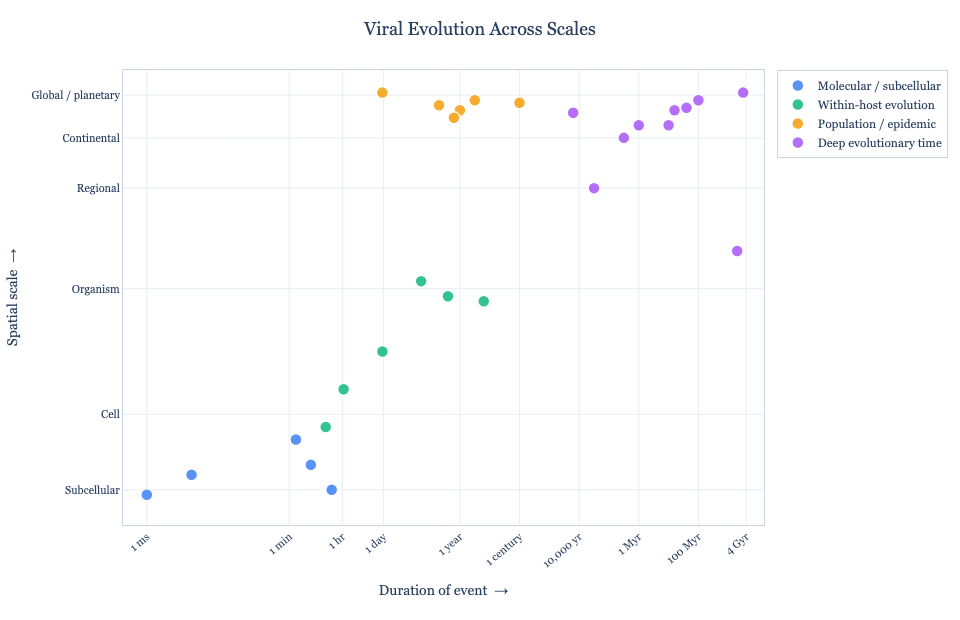
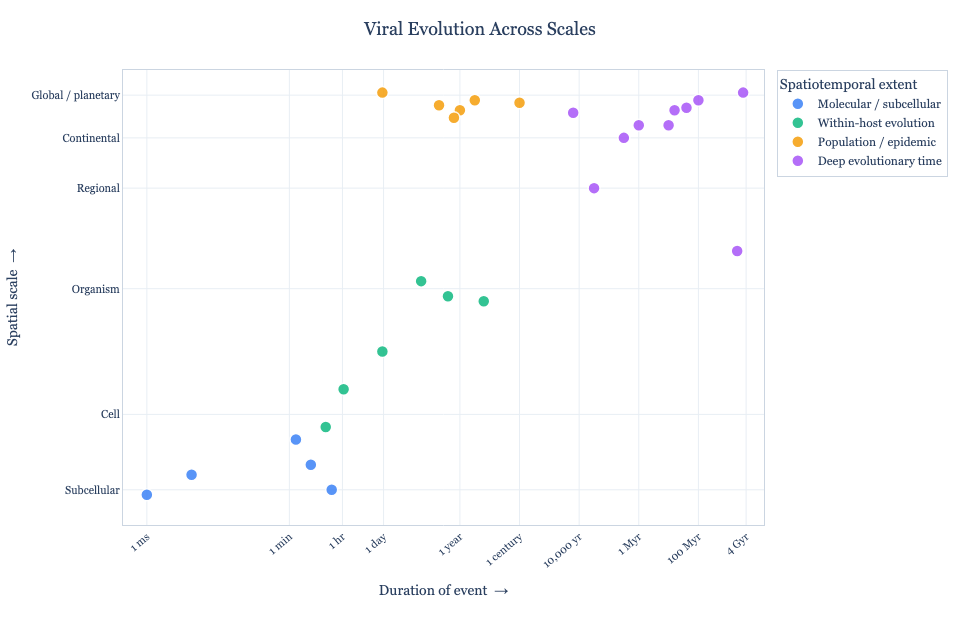
Added legend title.

Changed region(s): [[0.8125, 0.1226, 1.0, 0.2758]]

diff --git a/docs/index.html b/docs/index.html
@@ -2,6 +2,6 @@
 <head><meta charset="utf-8" /></head>
 <body>
     <div>                        <script>window.PlotlyConfig = {MathJaxConfig: 'local'};</script>
-        <script charset="utf-8" src="https://cdn.plot.ly/plotly-3.5.0.min.js" integrity="sha256-fHbNLP+GlIXN+efbQec78UkemUz3NJp7UmfGxC1tNxs=" crossorigin="anonymous"></script>                <div id="cd63f837-053e-462e-a65a-f21505c27e48" class="plotly-graph-div" style="height:620px; width:960px;"></div>            <script>                window.PLOTLYENV=window.PLOTLYENV || {};                                if (document.getElementById("cd63f837-053e-462e-a65a-f21505c27e48")) {                    Plotly.newPlot(                        "cd63f837-053e-462e-a65a-f21505c27e48",                        [{"customdata":["\u003cb\u003eRdRp nucleotide misincorporation\u003c\u002fb\u003e\u003cbr\u003e\u003cbr\u003eAn RdRp incorporates the wrong nucleotide once every\u003cbr\u003e~10 s of copying — the fastest evolutionary event in\u003cbr\u003evirology, and the raw material of all RNA virus\u003cbr\u003ediversity.","\u003cb\u003eRibosomal frameshifting\u003c\u002fb\u003e\u003cbr\u003e\u003cbr\u003eProgrammed −1 ribosomal frameshifting (HIV,\u003cbr\u003ecoronaviruses) occurs in milliseconds, generating\u003cbr\u003emultiple proteins from one genome — a single molecular\u003cbr\u003eevent with profound functional consequences.","\u003cb\u003eCapsid self-assembly\u003c\u002fb\u003e\u003cbr\u003e\u003cbr\u003eViral coat proteins assemble around the genome in\u003cbr\u003eminutes, driven by thermodynamics alone — no enzymatic\u003cbr\u003eenergy required. One of biology's most elegant examples\u003cbr\u003eof self-organisation.","\u003cb\u003eAPOBEC3 deamination of retroviral genome\u003c\u002fb\u003e\u003cbr\u003e\u003cbr\u003eHost APOBEC3 hypermutates the retroviral genome during\u003cbr\u003ereverse transcription. Its molecular signatures remain\u003cbr\u003ereadable in ERV sequences tens of millions of years\u003cbr\u003elater — the arms race fossilised at the molecular\u003cbr\u003escale.","\u003cb\u003eViral membrane budding\u003c\u002fb\u003e\u003cbr\u003e\u003cbr\u003eEnveloped viruses bud from the plasma membrane in\u003cbr\u003eminutes, hijacking host ESCRT machinery — the moment a\u003cbr\u003enew virion first becomes physically independent of its\u003cbr\u003ehost cell."],"hovertemplate":"%{customdata}\u003cextra\u003e\u003c\u002fextra\u003e","marker":{"color":"#3B82F6","line":{"color":"white","width":1.5},"opacity":0.85,"size":12},"mode":"markers","name":"Molecular \u002f subcellular","x":[-3.0,-1.5,2.5,3.2,2.0],"y":[-8.2,-7.4,-7.0,-8.0,-6.0],"type":"scatter"},{"customdata":["\u003cb\u003ePhage replication cycle (~25 min)\u003c\u002fb\u003e\u003cbr\u003e\u003cbr\u003eBacteriophage T4 completes a full lytic cycle in ~25\u003cbr\u003eminutes. In a single day, a phage population undergoes\u003cbr\u003emore generations than mammals have completed in 100\u003cbr\u003emillion years.","\u003cb\u003eInfluenza replication cycle (~8 hr)\u003c\u002fb\u003e\u003cbr\u003e\u003cbr\u003eInfluenza completes one replication cycle in ~8 hr\u003cbr\u003ewithin a respiratory epithelial cell, generating\u003cbr\u003ehundreds of progeny — most defective, some carrying\u003cbr\u003enovel mutations that may prove advantageous.","\u003cb\u003eHIV replication cycle (~2 days)\u003c\u002fb\u003e\u003cbr\u003e\u003cbr\u003eHIV replicates with a ~2-day cycle; ~10¹⁰ virions\u003cbr\u003eproduced daily in untreated infection. Each generation\u003cbr\u003eis another round of mutation and selection — evolution\u003cbr\u003eat the speed of disease.","\u003cb\u003eHIV quasispecies turnover (weeks)\u003c\u002fb\u003e\u003cbr\u003e\u003cbr\u003eThe entire circulating HIV quasispecies in a patient\u003cbr\u003eturns over multiple times per week — a complete\u003cbr\u003eevolving ecosystem in miniature, observable in real\u003cbr\u003etime.","\u003cb\u003eDrug resistance emergence (weeks–months)\u003c\u002fb\u003e\u003cbr\u003e\u003cbr\u003eResistance mutations pre-existing at 1-in-10⁵ frequency\u003cbr\u003ecan fix within weeks of starting monotherapy. Selection\u003cbr\u003eis extreme — non-resistant virus is effectively dead.\u003cbr\u003eThis is why combination therapy is required.","\u003cb\u003eChronic within-host immune escape (years)\u003c\u002fb\u003e\u003cbr\u003e\u003cbr\u003eOver years of chronic HIV infection, escape mutations\u003cbr\u003eaccumulate across the full CTL repertoire — a complete\u003cbr\u003eevolutionary trajectory observable within a single\u003cbr\u003epatient's clinical records."],"hovertemplate":"%{customdata}\u003cextra\u003e\u003c\u002fextra\u003e","marker":{"color":"#10B981","line":{"color":"white","width":1.5},"opacity":0.85,"size":12},"mode":"markers","name":"Within-host evolution","x":[3.0,3.6,4.9,6.2,7.1,8.3],"y":[-5.5,-4.0,-2.5,0.3,-0.3,-0.5],"type":"scatter"},{"customdata":["\u003cb\u003eOceanic viral shunt (daily, planetary)\u003c\u002fb\u003e\u003cbr\u003e\u003cbr\u003eViral lysis of marine bacteria diverts ~25% of ocean\u003cbr\u003eprimary production daily — the same replication process\u003cbr\u003ethat causes disease, simultaneously operating as a\u003cbr\u003eplanetary biogeochemical cycle. Note: same timescale as\u003cbr\u003ethe HIV replication cycle, 17 orders of magnitude\u003cbr\u003ehigher in spatial scale.","\u003cb\u003eSARS-CoV-2 variant emergence (months)\u003c\u002fb\u003e\u003cbr\u003e\u003cbr\u003eOmicron acquired \u003e30 spike mutations in months —\u003cbr\u003eprobably in a single immunocompromised host — then\u003cbr\u003espread globally. Within-host evolution projecting\u003cbr\u003edirectly onto pandemic scale.","\u003cb\u003eSeasonal influenza antigenic drift\u003c\u002fb\u003e\u003cbr\u003e\u003cbr\u003eHA\u002fNA accumulate mutations under antibody pressure over\u003cbr\u003e1–2 years — enough to require annual vaccine\u003cbr\u003ereformulation globally. Influenza's evolutionary clock\u003cbr\u003eis calibrated on vaccine committee meetings.","\u003cb\u003eSARS-CoV-1 epidemic (2002–03)\u003c\u002fb\u003e\u003cbr\u003e\u003cbr\u003e~8,000 cases, contained in months — but the first\u003cbr\u003edemonstration that bat coronaviruses could cause severe\u003cbr\u003ehuman disease. The evolutionary warning shot before\u003cbr\u003eSARS-CoV-2.","\u003cb\u003e1918 influenza pandemic\u003c\u002fb\u003e\u003cbr\u003e\u003cbr\u003eA reassortment event producing a novel HA swept the\u003cbr\u003eglobe in ~2 years, killing up to 100 million people.\u003cbr\u003eThe virus was later reconstructed from permafrost and\u003cbr\u003earchival lung tissue decades after the pandemic.","\u003cb\u003eHIV pandemic origin (~1920, century scale)\u003c\u002fb\u003e\u003cbr\u003e\u003cbr\u003eOne spillover of SIVcpz into humans in Kinshasa ~1920\u003cbr\u003ebecame a global pandemic of 85 million infections over\u003cbr\u003ea century — the slowest pandemic build-up in the modern\u003cbr\u003evirological record."],"hovertemplate":"%{customdata}\u003cextra\u003e\u003c\u002fextra\u003e","marker":{"color":"#F59E0B","line":{"color":"white","width":1.5},"opacity":0.85,"size":12},"mode":"markers","name":"Population \u002f epidemic","x":[4.9,6.8,7.5,7.3,8.0,9.5],"y":[7.8,7.3,7.1,6.8,7.5,7.4],"type":"scatter"},{"customdata":["\u003cb\u003ePithovirus revived from permafrost (30,000 yr)\u003c\u002fb\u003e\u003cbr\u003e\u003cbr\u003eA 30,000-yr-old giant virus revived from Siberian\u003cbr\u003epermafrost and found to be still infectious. As Arctic\u003cbr\u003epermafrost thaws under climate change, ancient viral\u003cbr\u003elineages absent for millennia may re-emerge.","\u003cb\u003eHBV in Neolithic remains (7,000 yr)\u003c\u002fb\u003e\u003cbr\u003e\u003cbr\u003eHepatitis B virus sequences recovered from 7,000-yr-old\u003cbr\u003eskeletal remains across Eurasia — tracing ancient viral\u003cbr\u003ephylogeography alongside human migration since the\u003cbr\u003eNeolithic. Viruses as markers of human history.","\u003cb\u003eSIV co-evolution with African primates (Myr)\u003c\u002fb\u003e\u003cbr\u003e\u003cbr\u003eSIV has co-evolved with dozens of African primate\u003cbr\u003especies for millions of years. HIV-1 is an extremely\u003cbr\u003erecent spillover on this timescale — a momentary\u003cbr\u003eperturbation in a much older relationship.","\u003cb\u003eTRIM5α\u002fCypA fusion in owl monkeys (~5 Myr)\u003c\u002fb\u003e\u003cbr\u003e\u003cbr\u003eA LINE-1 retrotransposition event fused CypA to TRIM5α\u003cbr\u003ein owl monkey ancestors ~5 Mya, creating a novel\u003cbr\u003erestriction factor against an ancient lentivirus — a\u003cbr\u003epermanent genetic scar of the host-virus arms race.","\u003cb\u003eHERV integrations \u002f syncytin co-option (~50 Myr)\u003c\u002fb\u003e\u003cbr\u003e\u003cbr\u003eMost HERVs integrated during mammalian radiation.\u003cbr\u003eRetroviral env genes were independently co-opted for\u003cbr\u003eplacentation in multiple mammalian lineages — viruses\u003cbr\u003erepurposed as essential developmental machinery.","\u003cb\u003eMHC\u002fHLA diversification (~50 Myr)\u003c\u002fb\u003e\u003cbr\u003e\u003cbr\u003ePathogen-driven balancing selection has maintained\u003cbr\u003eextraordinary HLA polymorphism for tens of millions of\u003cbr\u003eyears — the most polymorphic locus in the human genome,\u003cbr\u003eshaped almost entirely by pathogen pressure.","\u003cb\u003eHerpesvirus–vertebrate co-speciation (~400 Myr)\u003c\u002fb\u003e\u003cbr\u003e\u003cbr\u003eHerpesviruses co-diversified with vertebrates since the\u003cbr\u003eDevonian — approximately 400 million years of shared\u003cbr\u003eevolutionary history. Their phylogeny closely mirrors\u003cbr\u003ethat of their vertebrate hosts.","\u003cb\u003eRNA virus EVEs in vertebrates (~100+ Myr)\u003c\u002fb\u003e\u003cbr\u003e\u003cbr\u003eBornavirus- and filovirus-like endogenous elements push\u003cbr\u003ethese RNA virus lineages to \u003e100 Mya — far older than\u003cbr\u003eany direct sequence evidence suggested, revealed only\u003cbr\u003eby genomic paleovirology.","\u003cb\u003eJelly-roll capsid fold (pre-LUCA, ~4 Gyr)\u003c\u002fb\u003e\u003cbr\u003e\u003cbr\u003eThis beta-barrel structural domain is shared across\u003cbr\u003eviruses infecting organisms from all three domains of\u003cbr\u003elife — implying a common viral ancestor predating LUCA.\u003cbr\u003ePossibly the oldest molecular fossil on Earth.","\u003cb\u003eRNA world replicators (~4 Gyr, local scale)\u003c\u002fb\u003e\u003cbr\u003e\u003cbr\u003eHypothetical pre-cellular RNA replicators in\u003cbr\u003ehydrothermal vents or tidal pools — ancestral to\u003cbr\u003eviroids, ribozymes, and viral RdRps. The starting point\u003cbr\u003eof the entire spectrum, operating at purely local\u003cbr\u003echemical scales before any cell existed."],"hovertemplate":"%{customdata}\u003cextra\u003e\u003c\u002fextra\u003e","marker":{"color":"#A855F7","line":{"color":"white","width":1.5},"opacity":0.85,"size":12},"mode":"markers","name":"Deep evolutionary time","x":[12.0,11.3,13.5,13.0,14.7,14.5,15.5,15.1,17.0,16.8],"y":[4.0,7.0,6.5,6.0,7.1,6.5,7.5,7.2,7.8,1.5],"type":"scatter"}],                        {"template":{"data":{"histogram2dcontour":[{"type":"histogram2dcontour","colorbar":{"outlinewidth":0,"ticks":""},"colorscale":[[0.0,"#0d0887"],[0.1111111111111111,"#46039f"],[0.2222222222222222,"#7201a8"],[0.3333333333333333,"#9c179e"],[0.4444444444444444,"#bd3786"],[0.5555555555555556,"#d8576b"],[0.6666666666666666,"#ed7953"],[0.7777777777777778,"#fb9f3a"],[0.8888888888888888,"#fdca26"],[1.0,"#f0f921"]]}],"choropleth":[{"type":"choropleth","colorbar":{"outlinewidth":0,"ticks":""}}],"histogram2d":[{"type":"histogram2d","colorbar":{"outlinewidth":0,"ticks":""},"colorscale":[[0.0,"#0d0887"],[0.1111111111111111,"#46039f"],[0.2222222222222222,"#7201a8"],[0.3333333333333333,"#9c179e"],[0.4444444444444444,"#bd3786"],[0.5555555555555556,"#d8576b"],[0.6666666666666666,"#ed7953"],[0.7777777777777778,"#fb9f3a"],[0.8888888888888888,"#fdca26"],[1.0,"#f0f921"]]}],"heatmap":[{"type":"heatmap","colorbar":{"outlinewidth":0,"ticks":""},"colorscale":[[0.0,"#0d0887"],[0.1111111111111111,"#46039f"],[0.2222222222222222,"#7201a8"],[0.3333333333333333,"#9c179e"],[0.4444444444444444,"#bd3786"],[0.5555555555555556,"#d8576b"],[0.6666666666666666,"#ed7953"],[0.7777777777777778,"#fb9f3a"],[0.8888888888888888,"#fdca26"],[1.0,"#f0f921"]]}],"contourcarpet":[{"type":"contourcarpet","colorbar":{"outlinewidth":0,"ticks":""}}],"contour":[{"type":"contour","colorbar":{"outlinewidth":0,"ticks":""},"colorscale":[[0.0,"#0d0887"],[0.1111111111111111,"#46039f"],[0.2222222222222222,"#7201a8"],[0.3333333333333333,"#9c179e"],[0.4444444444444444,"#bd3786"],[0.5555555555555556,"#d8576b"],[0.6666666666666666,"#ed7953"],[0.7777777777777778,"#fb9f3a"],[0.8888888888888888,"#fdca26"],[1.0,"#f0f921"]]}],"surface":[{"type":"surface","colorbar":{"outlinewidth":0,"ticks":""},"colorscale":[[0.0,"#0d0887"],[0.1111111111111111,"#46039f"],[0.2222222222222222,"#7201a8"],[0.3333333333333333,"#9c179e"],[0.4444444444444444,"#bd3786"],[0.5555555555555556,"#d8576b"],[0.6666666666666666,"#ed7953"],[0.7777777777777778,"#fb9f3a"],[0.8888888888888888,"#fdca26"],[1.0,"#f0f921"]]}],"mesh3d":[{"type":"mesh3d","colorbar":{"outlinewidth":0,"ticks":""}}],"scatter":[{"fillpattern":{"fillmode":"overlay","size":10,"solidity":0.2},"type":"scatter"}],"parcoords":[{"type":"parcoords","line":{"colorbar":{"outlinewidth":0,"ticks":""}}}],"scatterpolargl":[{"type":"scatterpolargl","marker":{"colorbar":{"outlinewidth":0,"ticks":""}}}],"bar":[{"error_x":{"color":"#2a3f5f"},"error_y":{"color":"#2a3f5f"},"marker":{"line":{"color":"#E5ECF6","width":0.5},"pattern":{"fillmode":"overlay","size":10,"solidity":0.2}},"type":"bar"}],"scattergeo":[{"type":"scattergeo","marker":{"colorbar":{"outlinewidth":0,"ticks":""}}}],"scatterpolar":[{"type":"scatterpolar","marker":{"colorbar":{"outlinewidth":0,"ticks":""}}}],"histogram":[{"marker":{"pattern":{"fillmode":"overlay","size":10,"solidity":0.2}},"type":"histogram"}],"scattergl":[{"type":"scattergl","marker":{"colorbar":{"outlinewidth":0,"ticks":""}}}],"scatter3d":[{"type":"scatter3d","line":{"colorbar":{"outlinewidth":0,"ticks":""}},"marker":{"colorbar":{"outlinewidth":0,"ticks":""}}}],"scattermap":[{"type":"scattermap","marker":{"colorbar":{"outlinewidth":0,"ticks":""}}}],"scattermapbox":[{"type":"scattermapbox","marker":{"colorbar":{"outlinewidth":0,"ticks":""}}}],"scatterternary":[{"type":"scatterternary","marker":{"colorbar":{"outlinewidth":0,"ticks":""}}}],"scattercarpet":[{"type":"scattercarpet","marker":{"colorbar":{"outlinewidth":0,"ticks":""}}}],"carpet":[{"aaxis":{"endlinecolor":"#2a3f5f","gridcolor":"white","linecolor":"white","minorgridcolor":"white","startlinecolor":"#2a3f5f"},"baxis":{"endlinecolor":"#2a3f5f","gridcolor":"white","linecolor":"white","minorgridcolor":"white","startlinecolor":"#2a3f5f"},"type":"carpet"}],"table":[{"cells":{"fill":{"color":"#EBF0F8"},"line":{"color":"white"}},"header":{"fill":{"color":"#C8D4E3"},"line":{"color":"white"}},"type":"table"}],"barpolar":[{"marker":{"line":{"color":"#E5ECF6","width":0.5},"pattern":{"fillmode":"overlay","size":10,"solidity":0.2}},"type":"barpolar"}],"pie":[{"automargin":true,"type":"pie"}]},"layout":{"autotypenumbers":"strict","colorway":["#636efa","#EF553B","#00cc96","#ab63fa","#FFA15A","#19d3f3","#FF6692","#B6E880","#FF97FF","#FECB52"],"font":{"color":"#2a3f5f"},"hovermode":"closest","hoverlabel":{"align":"left"},"paper_bgcolor":"white","plot_bgcolor":"#E5ECF6","polar":{"bgcolor":"#E5ECF6","angularaxis":{"gridcolor":"white","linecolor":"white","ticks":""},"radialaxis":{"gridcolor":"white","linecolor":"white","ticks":""}},"ternary":{"bgcolor":"#E5ECF6","aaxis":{"gridcolor":"white","linecolor":"white","ticks":""},"baxis":{"gridcolor":"white","linecolor":"white","ticks":""},"caxis":{"gridcolor":"white","linecolor":"white","ticks":""}},"coloraxis":{"colorbar":{"outlinewidth":0,"ticks":""}},"colorscale":{"sequential":[[0.0,"#0d0887"],[0.1111111111111111,"#46039f"],[0.2222222222222222,"#7201a8"],[0.3333333333333333,"#9c179e"],[0.4444444444444444,"#bd3786"],[0.5555555555555556,"#d8576b"],[0.6666666666666666,"#ed7953"],[0.7777777777777778,"#fb9f3a"],[0.8888888888888888,"#fdca26"],[1.0,"#f0f921"]],"sequentialminus":[[0.0,"#0d0887"],[0.1111111111111111,"#46039f"],[0.2222222222222222,"#7201a8"],[0.3333333333333333,"#9c179e"],[0.4444444444444444,"#bd3786"],[0.5555555555555556,"#d8576b"],[0.6666666666666666,"#ed7953"],[0.7777777777777778,"#fb9f3a"],[0.8888888888888888,"#fdca26"],[1.0,"#f0f921"]],"diverging":[[0,"#8e0152"],[0.1,"#c51b7d"],[0.2,"#de77ae"],[0.3,"#f1b6da"],[0.4,"#fde0ef"],[0.5,"#f7f7f7"],[0.6,"#e6f5d0"],[0.7,"#b8e186"],[0.8,"#7fbc41"],[0.9,"#4d9221"],[1,"#276419"]]},"xaxis":{"gridcolor":"white","linecolor":"white","ticks":"","title":{"standoff":15},"zerolinecolor":"white","automargin":true,"zerolinewidth":2},"yaxis":{"gridcolor":"white","linecolor":"white","ticks":"","title":{"standoff":15},"zerolinecolor":"white","automargin":true,"zerolinewidth":2},"scene":{"xaxis":{"backgroundcolor":"#E5ECF6","gridcolor":"white","linecolor":"white","showbackground":true,"ticks":"","zerolinecolor":"white","gridwidth":2},"yaxis":{"backgroundcolor":"#E5ECF6","gridcolor":"white","linecolor":"white","showbackground":true,"ticks":"","zerolinecolor":"white","gridwidth":2},"zaxis":{"backgroundcolor":"#E5ECF6","gridcolor":"white","linecolor":"white","showbackground":true,"ticks":"","zerolinecolor":"white","gridwidth":2}},"shapedefaults":{"line":{"color":"#2a3f5f"}},"annotationdefaults":{"arrowcolor":"#2a3f5f","arrowhead":0,"arrowwidth":1},"geo":{"bgcolor":"white","landcolor":"#E5ECF6","subunitcolor":"white","showland":true,"showlakes":true,"lakecolor":"white"},"title":{"x":0.05},"mapbox":{"style":"light"}}},"title":{"font":{"family":"Georgia, serif","size":18},"text":"Viral Evolution Across Scales","x":0.5,"xanchor":"center"},"font":{"family":"Georgia, serif","size":11},"hoverlabel":{"font":{"size":12,"family":"Georgia, serif","color":"white"},"bgcolor":"rgba(27,42,74,0.95)","bordercolor":"rgba(0,0,0,0)"},"legend":{"font":{"family":"Georgia, serif","size":12},"bgcolor":"rgba(255,255,255,0.9)","bordercolor":"#CBD5E1","borderwidth":1},"xaxis":{"tickfont":{"family":"Georgia, serif","size":11},"title":{"font":{"family":"Georgia, serif","size":14},"text":"Duration of event  →","standoff":15},"showgrid":true,"gridcolor":"#E8EEF4","gridwidth":1,"zeroline":false,"showline":true,"mirror":true,"linecolor":"#CBD5E1","linewidth":1,"range":[-3.8,17.7],"tickvals":[-3.0,1.78,3.56,4.94,7.5,9.5,11.5,13.5,15.5,17.1],"ticktext":["1 ms","1 min","1 hr","1 day","1 year","1 century","10,000 yr","1 Myr","100 Myr","4 Gyr"],"tickangle":-40},"yaxis":{"tickfont":{"family":"Georgia, serif","size":11},"title":{"font":{"family":"Georgia, serif","size":14},"text":"Spatial scale  →","standoff":10},"showgrid":true,"gridcolor":"#E8EEF4","gridwidth":1,"zeroline":false,"showline":true,"mirror":true,"linecolor":"#CBD5E1","linewidth":1,"range":[-9.4,8.7],"tickvals":[-8.0,-5.0,0.0,4.0,6.0,7.7],"ticktext":["Subcellular","Cell","Organism","Regional","Continental","Global \u002f planetary"],"tickangle":0},"margin":{"l":90,"r":40,"t":70,"b":95},"width":960,"height":620,"paper_bgcolor":"white","plot_bgcolor":"white"},                        {"responsive": true}                    )                };            </script>        </div>
+        <script charset="utf-8" src="https://cdn.plot.ly/plotly-3.5.0.min.js" integrity="sha256-fHbNLP+GlIXN+efbQec78UkemUz3NJp7UmfGxC1tNxs=" crossorigin="anonymous"></script>                <div id="603d24bd-a520-44ec-8f73-66bd7a8e854e" class="plotly-graph-div" style="height:620px; width:960px;"></div>            <script>                window.PLOTLYENV=window.PLOTLYENV || {};                                if (document.getElementById("603d24bd-a520-44ec-8f73-66bd7a8e854e")) {                    Plotly.newPlot(                        "603d24bd-a520-44ec-8f73-66bd7a8e854e",                        [{"customdata":["\u003cb\u003eRdRp nucleotide misincorporation\u003c\u002fb\u003e\u003cbr\u003e\u003cbr\u003eAn RdRp incorporates the wrong nucleotide once every\u003cbr\u003e~10 s of copying — the fastest evolutionary event in\u003cbr\u003evirology, and the raw material of all RNA virus\u003cbr\u003ediversity.","\u003cb\u003eRibosomal frameshifting\u003c\u002fb\u003e\u003cbr\u003e\u003cbr\u003eProgrammed −1 ribosomal frameshifting (HIV,\u003cbr\u003ecoronaviruses) occurs in milliseconds, generating\u003cbr\u003emultiple proteins from one genome — a single molecular\u003cbr\u003eevent with profound functional consequences.","\u003cb\u003eCapsid self-assembly\u003c\u002fb\u003e\u003cbr\u003e\u003cbr\u003eViral coat proteins assemble around the genome in\u003cbr\u003eminutes, driven by thermodynamics alone — no enzymatic\u003cbr\u003eenergy required. One of biology's most elegant examples\u003cbr\u003eof self-organisation.","\u003cb\u003eAPOBEC3 deamination of retroviral genome\u003c\u002fb\u003e\u003cbr\u003e\u003cbr\u003eHost APOBEC3 hypermutates the retroviral genome during\u003cbr\u003ereverse transcription. Its molecular signatures remain\u003cbr\u003ereadable in ERV sequences tens of millions of years\u003cbr\u003elater — the arms race fossilised at the molecular\u003cbr\u003escale.","\u003cb\u003eViral membrane budding\u003c\u002fb\u003e\u003cbr\u003e\u003cbr\u003eEnveloped viruses bud from the plasma membrane in\u003cbr\u003eminutes, hijacking host ESCRT machinery — the moment a\u003cbr\u003enew virion first becomes physically independent of its\u003cbr\u003ehost cell."],"hovertemplate":"%{customdata}\u003cextra\u003e\u003c\u002fextra\u003e","marker":{"color":"#3B82F6","line":{"color":"white","width":1.5},"opacity":0.85,"size":12},"mode":"markers","name":"Molecular \u002f subcellular","x":[-3.0,-1.5,2.5,3.2,2.0],"y":[-8.2,-7.4,-7.0,-8.0,-6.0],"type":"scatter"},{"customdata":["\u003cb\u003ePhage replication cycle (~25 min)\u003c\u002fb\u003e\u003cbr\u003e\u003cbr\u003eBacteriophage T4 completes a full lytic cycle in ~25\u003cbr\u003eminutes. In a single day, a phage population undergoes\u003cbr\u003emore generations than mammals have completed in 100\u003cbr\u003emillion years.","\u003cb\u003eInfluenza replication cycle (~8 hr)\u003c\u002fb\u003e\u003cbr\u003e\u003cbr\u003eInfluenza completes one replication cycle in ~8 hr\u003cbr\u003ewithin a respiratory epithelial cell, generating\u003cbr\u003ehundreds of progeny — most defective, some carrying\u003cbr\u003enovel mutations that may prove advantageous.","\u003cb\u003eHIV replication cycle (~2 days)\u003c\u002fb\u003e\u003cbr\u003e\u003cbr\u003eHIV replicates with a ~2-day cycle; ~10¹⁰ virions\u003cbr\u003eproduced daily in untreated infection. Each generation\u003cbr\u003eis another round of mutation and selection — evolution\u003cbr\u003eat the speed of disease.","\u003cb\u003eHIV quasispecies turnover (weeks)\u003c\u002fb\u003e\u003cbr\u003e\u003cbr\u003eThe entire circulating HIV quasispecies in a patient\u003cbr\u003eturns over multiple times per week — a complete\u003cbr\u003eevolving ecosystem in miniature, observable in real\u003cbr\u003etime.","\u003cb\u003eDrug resistance emergence (weeks–months)\u003c\u002fb\u003e\u003cbr\u003e\u003cbr\u003eResistance mutations pre-existing at 1-in-10⁵ frequency\u003cbr\u003ecan fix within weeks of starting monotherapy. Selection\u003cbr\u003eis extreme — non-resistant virus is effectively dead.\u003cbr\u003eThis is why combination therapy is required.","\u003cb\u003eChronic within-host immune escape (years)\u003c\u002fb\u003e\u003cbr\u003e\u003cbr\u003eOver years of chronic HIV infection, escape mutations\u003cbr\u003eaccumulate across the full CTL repertoire — a complete\u003cbr\u003eevolutionary trajectory observable within a single\u003cbr\u003epatient's clinical records."],"hovertemplate":"%{customdata}\u003cextra\u003e\u003c\u002fextra\u003e","marker":{"color":"#10B981","line":{"color":"white","width":1.5},"opacity":0.85,"size":12},"mode":"markers","name":"Within-host evolution","x":[3.0,3.6,4.9,6.2,7.1,8.3],"y":[-5.5,-4.0,-2.5,0.3,-0.3,-0.5],"type":"scatter"},{"customdata":["\u003cb\u003eOceanic viral shunt (daily, planetary)\u003c\u002fb\u003e\u003cbr\u003e\u003cbr\u003eViral lysis of marine bacteria diverts ~25% of ocean\u003cbr\u003eprimary production daily — the same replication process\u003cbr\u003ethat causes disease, simultaneously operating as a\u003cbr\u003eplanetary biogeochemical cycle. Note: same timescale as\u003cbr\u003ethe HIV replication cycle, 17 orders of magnitude\u003cbr\u003ehigher in spatial scale.","\u003cb\u003eSARS-CoV-2 variant emergence (months)\u003c\u002fb\u003e\u003cbr\u003e\u003cbr\u003eOmicron acquired \u003e30 spike mutations in months —\u003cbr\u003eprobably in a single immunocompromised host — then\u003cbr\u003espread globally. Within-host evolution projecting\u003cbr\u003edirectly onto pandemic scale.","\u003cb\u003eSeasonal influenza antigenic drift\u003c\u002fb\u003e\u003cbr\u003e\u003cbr\u003eHA\u002fNA accumulate mutations under antibody pressure over\u003cbr\u003e1–2 years — enough to require annual vaccine\u003cbr\u003ereformulation globally. Influenza's evolutionary clock\u003cbr\u003eis calibrated on vaccine committee meetings.","\u003cb\u003eSARS-CoV-1 epidemic (2002–03)\u003c\u002fb\u003e\u003cbr\u003e\u003cbr\u003e~8,000 cases, contained in months — but the first\u003cbr\u003edemonstration that bat coronaviruses could cause severe\u003cbr\u003ehuman disease. The evolutionary warning shot before\u003cbr\u003eSARS-CoV-2.","\u003cb\u003e1918 influenza pandemic\u003c\u002fb\u003e\u003cbr\u003e\u003cbr\u003eA reassortment event producing a novel HA swept the\u003cbr\u003eglobe in ~2 years, killing up to 100 million people.\u003cbr\u003eThe virus was later reconstructed from permafrost and\u003cbr\u003earchival lung tissue decades after the pandemic.","\u003cb\u003eHIV pandemic origin (~1920, century scale)\u003c\u002fb\u003e\u003cbr\u003e\u003cbr\u003eOne spillover of SIVcpz into humans in Kinshasa ~1920\u003cbr\u003ebecame a global pandemic of 85 million infections over\u003cbr\u003ea century — the slowest pandemic build-up in the modern\u003cbr\u003evirological record."],"hovertemplate":"%{customdata}\u003cextra\u003e\u003c\u002fextra\u003e","marker":{"color":"#F59E0B","line":{"color":"white","width":1.5},"opacity":0.85,"size":12},"mode":"markers","name":"Population \u002f epidemic","x":[4.9,6.8,7.5,7.3,8.0,9.5],"y":[7.8,7.3,7.1,6.8,7.5,7.4],"type":"scatter"},{"customdata":["\u003cb\u003ePithovirus revived from permafrost (30,000 yr)\u003c\u002fb\u003e\u003cbr\u003e\u003cbr\u003eA 30,000-yr-old giant virus revived from Siberian\u003cbr\u003epermafrost and found to be still infectious. As Arctic\u003cbr\u003epermafrost thaws under climate change, ancient viral\u003cbr\u003elineages absent for millennia may re-emerge.","\u003cb\u003eHBV in Neolithic remains (7,000 yr)\u003c\u002fb\u003e\u003cbr\u003e\u003cbr\u003eHepatitis B virus sequences recovered from 7,000-yr-old\u003cbr\u003eskeletal remains across Eurasia — tracing ancient viral\u003cbr\u003ephylogeography alongside human migration since the\u003cbr\u003eNeolithic. Viruses as markers of human history.","\u003cb\u003eSIV co-evolution with African primates (Myr)\u003c\u002fb\u003e\u003cbr\u003e\u003cbr\u003eSIV has co-evolved with dozens of African primate\u003cbr\u003especies for millions of years. HIV-1 is an extremely\u003cbr\u003erecent spillover on this timescale — a momentary\u003cbr\u003eperturbation in a much older relationship.","\u003cb\u003eTRIM5α\u002fCypA fusion in owl monkeys (~5 Myr)\u003c\u002fb\u003e\u003cbr\u003e\u003cbr\u003eA LINE-1 retrotransposition event fused CypA to TRIM5α\u003cbr\u003ein owl monkey ancestors ~5 Mya, creating a novel\u003cbr\u003erestriction factor against an ancient lentivirus — a\u003cbr\u003epermanent genetic scar of the host-virus arms race.","\u003cb\u003eHERV integrations \u002f syncytin co-option (~50 Myr)\u003c\u002fb\u003e\u003cbr\u003e\u003cbr\u003eMost HERVs integrated during mammalian radiation.\u003cbr\u003eRetroviral env genes were independently co-opted for\u003cbr\u003eplacentation in multiple mammalian lineages — viruses\u003cbr\u003erepurposed as essential developmental machinery.","\u003cb\u003eMHC\u002fHLA diversification (~50 Myr)\u003c\u002fb\u003e\u003cbr\u003e\u003cbr\u003ePathogen-driven balancing selection has maintained\u003cbr\u003eextraordinary HLA polymorphism for tens of millions of\u003cbr\u003eyears — the most polymorphic locus in the human genome,\u003cbr\u003eshaped almost entirely by pathogen pressure.","\u003cb\u003eHerpesvirus–vertebrate co-speciation (~400 Myr)\u003c\u002fb\u003e\u003cbr\u003e\u003cbr\u003eHerpesviruses co-diversified with vertebrates since the\u003cbr\u003eDevonian — approximately 400 million years of shared\u003cbr\u003eevolutionary history. Their phylogeny closely mirrors\u003cbr\u003ethat of their vertebrate hosts.","\u003cb\u003eRNA virus EVEs in vertebrates (~100+ Myr)\u003c\u002fb\u003e\u003cbr\u003e\u003cbr\u003eBornavirus- and filovirus-like endogenous elements push\u003cbr\u003ethese RNA virus lineages to \u003e100 Mya — far older than\u003cbr\u003eany direct sequence evidence suggested, revealed only\u003cbr\u003eby genomic paleovirology.","\u003cb\u003eJelly-roll capsid fold (pre-LUCA, ~4 Gyr)\u003c\u002fb\u003e\u003cbr\u003e\u003cbr\u003eThis beta-barrel structural domain is shared across\u003cbr\u003eviruses infecting organisms from all three domains of\u003cbr\u003elife — implying a common viral ancestor predating LUCA.\u003cbr\u003ePossibly the oldest molecular fossil on Earth.","\u003cb\u003eRNA world replicators (~4 Gyr, local scale)\u003c\u002fb\u003e\u003cbr\u003e\u003cbr\u003eHypothetical pre-cellular RNA replicators in\u003cbr\u003ehydrothermal vents or tidal pools — ancestral to\u003cbr\u003eviroids, ribozymes, and viral RdRps. The starting point\u003cbr\u003eof the entire spectrum, operating at purely local\u003cbr\u003echemical scales before any cell existed."],"hovertemplate":"%{customdata}\u003cextra\u003e\u003c\u002fextra\u003e","marker":{"color":"#A855F7","line":{"color":"white","width":1.5},"opacity":0.85,"size":12},"mode":"markers","name":"Deep evolutionary time","x":[12.0,11.3,13.5,13.0,14.7,14.5,15.5,15.1,17.0,16.8],"y":[4.0,7.0,6.5,6.0,7.1,6.5,7.5,7.2,7.8,1.5],"type":"scatter"}],                        {"template":{"data":{"histogram2dcontour":[{"type":"histogram2dcontour","colorbar":{"outlinewidth":0,"ticks":""},"colorscale":[[0.0,"#0d0887"],[0.1111111111111111,"#46039f"],[0.2222222222222222,"#7201a8"],[0.3333333333333333,"#9c179e"],[0.4444444444444444,"#bd3786"],[0.5555555555555556,"#d8576b"],[0.6666666666666666,"#ed7953"],[0.7777777777777778,"#fb9f3a"],[0.8888888888888888,"#fdca26"],[1.0,"#f0f921"]]}],"choropleth":[{"type":"choropleth","colorbar":{"outlinewidth":0,"ticks":""}}],"histogram2d":[{"type":"histogram2d","colorbar":{"outlinewidth":0,"ticks":""},"colorscale":[[0.0,"#0d0887"],[0.1111111111111111,"#46039f"],[0.2222222222222222,"#7201a8"],[0.3333333333333333,"#9c179e"],[0.4444444444444444,"#bd3786"],[0.5555555555555556,"#d8576b"],[0.6666666666666666,"#ed7953"],[0.7777777777777778,"#fb9f3a"],[0.8888888888888888,"#fdca26"],[1.0,"#f0f921"]]}],"heatmap":[{"type":"heatmap","colorbar":{"outlinewidth":0,"ticks":""},"colorscale":[[0.0,"#0d0887"],[0.1111111111111111,"#46039f"],[0.2222222222222222,"#7201a8"],[0.3333333333333333,"#9c179e"],[0.4444444444444444,"#bd3786"],[0.5555555555555556,"#d8576b"],[0.6666666666666666,"#ed7953"],[0.7777777777777778,"#fb9f3a"],[0.8888888888888888,"#fdca26"],[1.0,"#f0f921"]]}],"contourcarpet":[{"type":"contourcarpet","colorbar":{"outlinewidth":0,"ticks":""}}],"contour":[{"type":"contour","colorbar":{"outlinewidth":0,"ticks":""},"colorscale":[[0.0,"#0d0887"],[0.1111111111111111,"#46039f"],[0.2222222222222222,"#7201a8"],[0.3333333333333333,"#9c179e"],[0.4444444444444444,"#bd3786"],[0.5555555555555556,"#d8576b"],[0.6666666666666666,"#ed7953"],[0.7777777777777778,"#fb9f3a"],[0.8888888888888888,"#fdca26"],[1.0,"#f0f921"]]}],"surface":[{"type":"surface","colorbar":{"outlinewidth":0,"ticks":""},"colorscale":[[0.0,"#0d0887"],[0.1111111111111111,"#46039f"],[0.2222222222222222,"#7201a8"],[0.3333333333333333,"#9c179e"],[0.4444444444444444,"#bd3786"],[0.5555555555555556,"#d8576b"],[0.6666666666666666,"#ed7953"],[0.7777777777777778,"#fb9f3a"],[0.8888888888888888,"#fdca26"],[1.0,"#f0f921"]]}],"mesh3d":[{"type":"mesh3d","colorbar":{"outlinewidth":0,"ticks":""}}],"scatter":[{"fillpattern":{"fillmode":"overlay","size":10,"solidity":0.2},"type":"scatter"}],"parcoords":[{"type":"parcoords","line":{"colorbar":{"outlinewidth":0,"ticks":""}}}],"scatterpolargl":[{"type":"scatterpolargl","marker":{"colorbar":{"outlinewidth":0,"ticks":""}}}],"bar":[{"error_x":{"color":"#2a3f5f"},"error_y":{"color":"#2a3f5f"},"marker":{"line":{"color":"#E5ECF6","width":0.5},"pattern":{"fillmode":"overlay","size":10,"solidity":0.2}},"type":"bar"}],"scattergeo":[{"type":"scattergeo","marker":{"colorbar":{"outlinewidth":0,"ticks":""}}}],"scatterpolar":[{"type":"scatterpolar","marker":{"colorbar":{"outlinewidth":0,"ticks":""}}}],"histogram":[{"marker":{"pattern":{"fillmode":"overlay","size":10,"solidity":0.2}},"type":"histogram"}],"scattergl":[{"type":"scattergl","marker":{"colorbar":{"outlinewidth":0,"ticks":""}}}],"scatter3d":[{"type":"scatter3d","line":{"colorbar":{"outlinewidth":0,"ticks":""}},"marker":{"colorbar":{"outlinewidth":0,"ticks":""}}}],"scattermap":[{"type":"scattermap","marker":{"colorbar":{"outlinewidth":0,"ticks":""}}}],"scattermapbox":[{"type":"scattermapbox","marker":{"colorbar":{"outlinewidth":0,"ticks":""}}}],"scatterternary":[{"type":"scatterternary","marker":{"colorbar":{"outlinewidth":0,"ticks":""}}}],"scattercarpet":[{"type":"scattercarpet","marker":{"colorbar":{"outlinewidth":0,"ticks":""}}}],"carpet":[{"aaxis":{"endlinecolor":"#2a3f5f","gridcolor":"white","linecolor":"white","minorgridcolor":"white","startlinecolor":"#2a3f5f"},"baxis":{"endlinecolor":"#2a3f5f","gridcolor":"white","linecolor":"white","minorgridcolor":"white","startlinecolor":"#2a3f5f"},"type":"carpet"}],"table":[{"cells":{"fill":{"color":"#EBF0F8"},"line":{"color":"white"}},"header":{"fill":{"color":"#C8D4E3"},"line":{"color":"white"}},"type":"table"}],"barpolar":[{"marker":{"line":{"color":"#E5ECF6","width":0.5},"pattern":{"fillmode":"overlay","size":10,"solidity":0.2}},"type":"barpolar"}],"pie":[{"automargin":true,"type":"pie"}]},"layout":{"autotypenumbers":"strict","colorway":["#636efa","#EF553B","#00cc96","#ab63fa","#FFA15A","#19d3f3","#FF6692","#B6E880","#FF97FF","#FECB52"],"font":{"color":"#2a3f5f"},"hovermode":"closest","hoverlabel":{"align":"left"},"paper_bgcolor":"white","plot_bgcolor":"#E5ECF6","polar":{"bgcolor":"#E5ECF6","angularaxis":{"gridcolor":"white","linecolor":"white","ticks":""},"radialaxis":{"gridcolor":"white","linecolor":"white","ticks":""}},"ternary":{"bgcolor":"#E5ECF6","aaxis":{"gridcolor":"white","linecolor":"white","ticks":""},"baxis":{"gridcolor":"white","linecolor":"white","ticks":""},"caxis":{"gridcolor":"white","linecolor":"white","ticks":""}},"coloraxis":{"colorbar":{"outlinewidth":0,"ticks":""}},"colorscale":{"sequential":[[0.0,"#0d0887"],[0.1111111111111111,"#46039f"],[0.2222222222222222,"#7201a8"],[0.3333333333333333,"#9c179e"],[0.4444444444444444,"#bd3786"],[0.5555555555555556,"#d8576b"],[0.6666666666666666,"#ed7953"],[0.7777777777777778,"#fb9f3a"],[0.8888888888888888,"#fdca26"],[1.0,"#f0f921"]],"sequentialminus":[[0.0,"#0d0887"],[0.1111111111111111,"#46039f"],[0.2222222222222222,"#7201a8"],[0.3333333333333333,"#9c179e"],[0.4444444444444444,"#bd3786"],[0.5555555555555556,"#d8576b"],[0.6666666666666666,"#ed7953"],[0.7777777777777778,"#fb9f3a"],[0.8888888888888888,"#fdca26"],[1.0,"#f0f921"]],"diverging":[[0,"#8e0152"],[0.1,"#c51b7d"],[0.2,"#de77ae"],[0.3,"#f1b6da"],[0.4,"#fde0ef"],[0.5,"#f7f7f7"],[0.6,"#e6f5d0"],[0.7,"#b8e186"],[0.8,"#7fbc41"],[0.9,"#4d9221"],[1,"#276419"]]},"xaxis":{"gridcolor":"white","linecolor":"white","ticks":"","title":{"standoff":15},"zerolinecolor":"white","automargin":true,"zerolinewidth":2},"yaxis":{"gridcolor":"white","linecolor":"white","ticks":"","title":{"standoff":15},"zerolinecolor":"white","automargin":true,"zerolinewidth":2},"scene":{"xaxis":{"backgroundcolor":"#E5ECF6","gridcolor":"white","linecolor":"white","showbackground":true,"ticks":"","zerolinecolor":"white","gridwidth":2},"yaxis":{"backgroundcolor":"#E5ECF6","gridcolor":"white","linecolor":"white","showbackground":true,"ticks":"","zerolinecolor":"white","gridwidth":2},"zaxis":{"backgroundcolor":"#E5ECF6","gridcolor":"white","linecolor":"white","showbackground":true,"ticks":"","zerolinecolor":"white","gridwidth":2}},"shapedefaults":{"line":{"color":"#2a3f5f"}},"annotationdefaults":{"arrowcolor":"#2a3f5f","arrowhead":0,"arrowwidth":1},"geo":{"bgcolor":"white","landcolor":"#E5ECF6","subunitcolor":"white","showland":true,"showlakes":true,"lakecolor":"white"},"title":{"x":0.05},"mapbox":{"style":"light"}}},"title":{"font":{"family":"Georgia, serif","size":18},"text":"Viral Evolution Across Scales","x":0.5,"xanchor":"center"},"font":{"family":"Georgia, serif","size":11},"hoverlabel":{"font":{"size":12,"family":"Georgia, serif","color":"white"},"bgcolor":"rgba(27,42,74,0.95)","bordercolor":"rgba(0,0,0,0)"},"legend":{"title":{"text":"Spatiotemporal extent"},"font":{"family":"Georgia, serif","size":12},"bgcolor":"rgba(255,255,255,0.9)","bordercolor":"#CBD5E1","borderwidth":1},"xaxis":{"tickfont":{"family":"Georgia, serif","size":11},"title":{"font":{"family":"Georgia, serif","size":14},"text":"Duration of event  →","standoff":15},"showgrid":true,"gridcolor":"#E8EEF4","gridwidth":1,"zeroline":false,"showline":true,"mirror":true,"linecolor":"#CBD5E1","linewidth":1,"range":[-3.8,17.7],"tickvals":[-3.0,1.78,3.56,4.94,7.5,9.5,11.5,13.5,15.5,17.1],"ticktext":["1 ms","1 min","1 hr","1 day","1 year","1 century","10,000 yr","1 Myr","100 Myr","4 Gyr"],"tickangle":-40},"yaxis":{"tickfont":{"family":"Georgia, serif","size":11},"title":{"font":{"family":"Georgia, serif","size":14},"text":"Spatial scale  →","standoff":10},"showgrid":true,"gridcolor":"#E8EEF4","gridwidth":1,"zeroline":false,"showline":true,"mirror":true,"linecolor":"#CBD5E1","linewidth":1,"range":[-9.4,8.7],"tickvals":[-8.0,-5.0,0.0,4.0,6.0,7.7],"ticktext":["Subcellular","Cell","Organism","Regional","Continental","Global \u002f planetary"],"tickangle":0},"margin":{"l":90,"r":40,"t":70,"b":95},"width":960,"height":620,"paper_bgcolor":"white","plot_bgcolor":"white"},                        {"responsive": true}                    )                };            </script>        </div>
 </body>
 </html>

diff --git a/make-plot.py b/make-plot.py
@@ -135,6 +135,7 @@ def build_figure(cfg: dict) -> go.Figure:
             bordercolor="rgba(0,0,0,0)",
         ),
         legend=dict(
+            title=dict(text=plot_cfg.get("legend_title", "")),
             font=dict(family=font_family, size=legend_size),
             bgcolor="rgba(255,255,255,0.9)",
             bordercolor="#CBD5E1",
